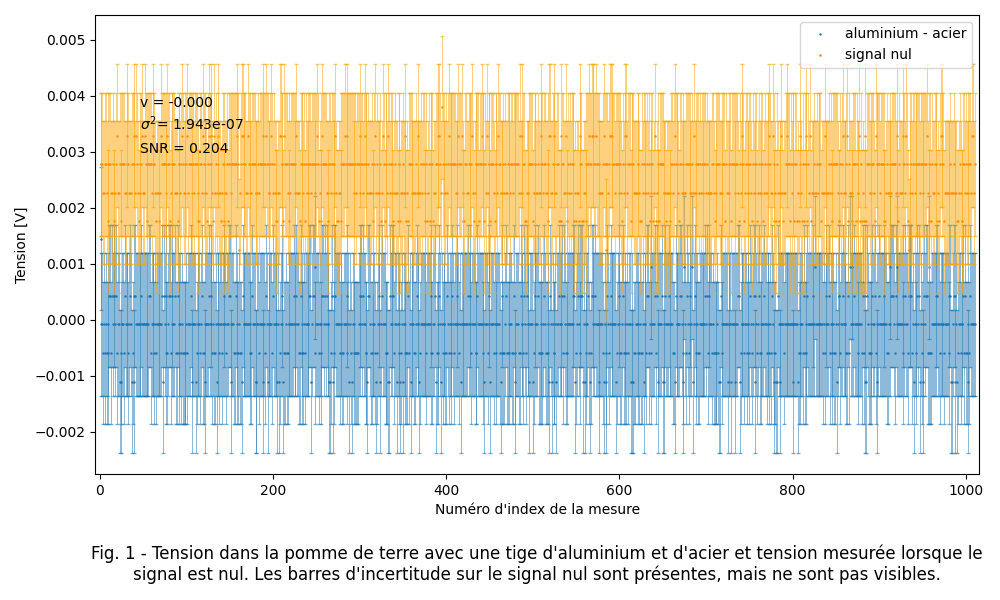
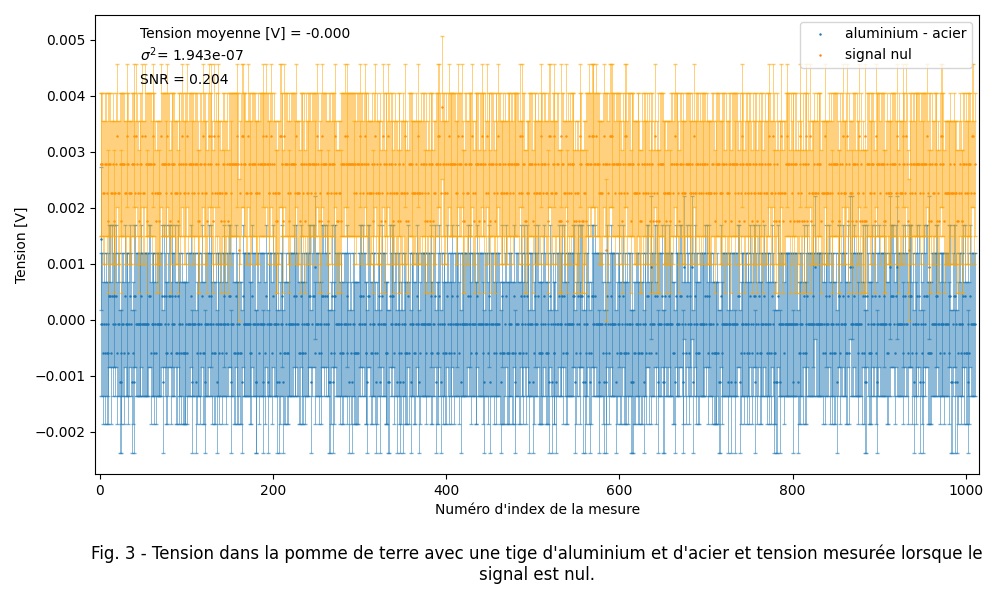
Figures faites

Changed region(s): [[0.124, 0.9, 0.93, 0.99], [0.124, 0.03, 0.341, 0.27]]

diff --git a/Labo1/Programmation/Comparaison_bruit.py b/Labo1/Programmation/Comparaison_bruit.py
@@ -76,12 +76,12 @@ def graphiques_scatter(array):
     plt.ylabel("Tension [V]")
 
     plt.title(
-        f"Fig. 1 - Tension mesurée lorsque le signal est nul et bruit gaussien.",
+        f"Fig. 7 - Tension mesurée lorsque le signal est nul et bruit gaussien généré par LabVIEW.",
         y=-0.15
     )
 
     plt.tight_layout()
-    plt.savefig(plot_dir + "signal_nul_vs_bruit.png")
+    plt.savefig(plot_dir + "/signal_nul_vs_bruit.png")
 
     plt.show()
 
@@ -93,8 +93,8 @@ def histogramme(array):
     plt.hist(array, bins=10, range=[-0.003, 0.005])
 
     plt.xlabel("Tension [V]")
-    plt.ylabel("Jsp quoi mettre Jérémie aide moi")
-    plt.title("Fig. 9 - La distribution des valeurs de tensions mesurées pour le signal nul et la distribution du bruit" \
+    plt.ylabel("Nombre d'échantillons")
+    plt.title("Fig. 6 - La distribution des valeurs de tensions mesurées pour le signal nul et la distribution du bruit" \
               "gaussien",
               y=-0.15)
 
@@ -104,6 +104,6 @@ def histogramme(array):
     plt.show()
 
 
-histogramme(read(filepath))
+# histogramme(read(filepath))
 
-# graphiques_scatter(read(filepath))
+graphiques_scatter(read(filepath))

diff --git a/Labo1/Programmation/Graphique_tension_constante.py b/Labo1/Programmation/Graphique_tension_constante.py
@@ -84,15 +84,15 @@ def graphiques_scatter(array):
     plt.ylabel("Tension [V]")
 
     plt.title(
-        f"Fig. 1 - Tension dans {description[num]} et tension mesurée lorsque le\nsignal est nul."
-        " Les barres d'incertitude sur le signal nul sont présentes, mais ne sont pas visibles.",
+        f"Fig. 3 - Tension dans {description[num]} et tension mesurée lorsque le\nsignal est nul.",
+#        " Les barres d'incertitude sur le signal nul sont présentes, mais ne sont pas visibles.",
         y=-0.25
     )
 
     ax = plt.gca()
-    ax.text(0.05, 0.80, f"v = {moyenne(filepath, 0):.3f}", transform=ax.transAxes)
-    ax.text(0.05, 0.75, r"$\sigma^2$" + f"= {variance(filepath, 0):.3e}", transform=ax.transAxes)
-    ax.text(0.05, 0.70, f"SNR = {snr(filepath, 0):.3f}", transform=ax.transAxes)
+    ax.text(0.05, 0.95, f"Tension moyenne [V] = {moyenne(filepath, 0):.3f}", transform=ax.transAxes)
+    ax.text(0.05, 0.90, r"$\sigma^2$" + f"= {variance(filepath, 0):.3e}", transform=ax.transAxes)
+    ax.text(0.05, 0.85, f"SNR = {snr(filepath, 0):.3f}", transform=ax.transAxes)
 
     plt.tight_layout()
     plt.savefig(os.path.join(plot_dir, f"_{nom[num]}.png"))

diff --git a/Labo1/Programmation/Calcul_résistance.py b/Labo1/Programmation/Calcul_résistance.py
@@ -1,6 +1,7 @@
 import pandas as pd
 import matplotlib.pyplot as plt
 import numpy as np
+import scipy
 import os
 
 
